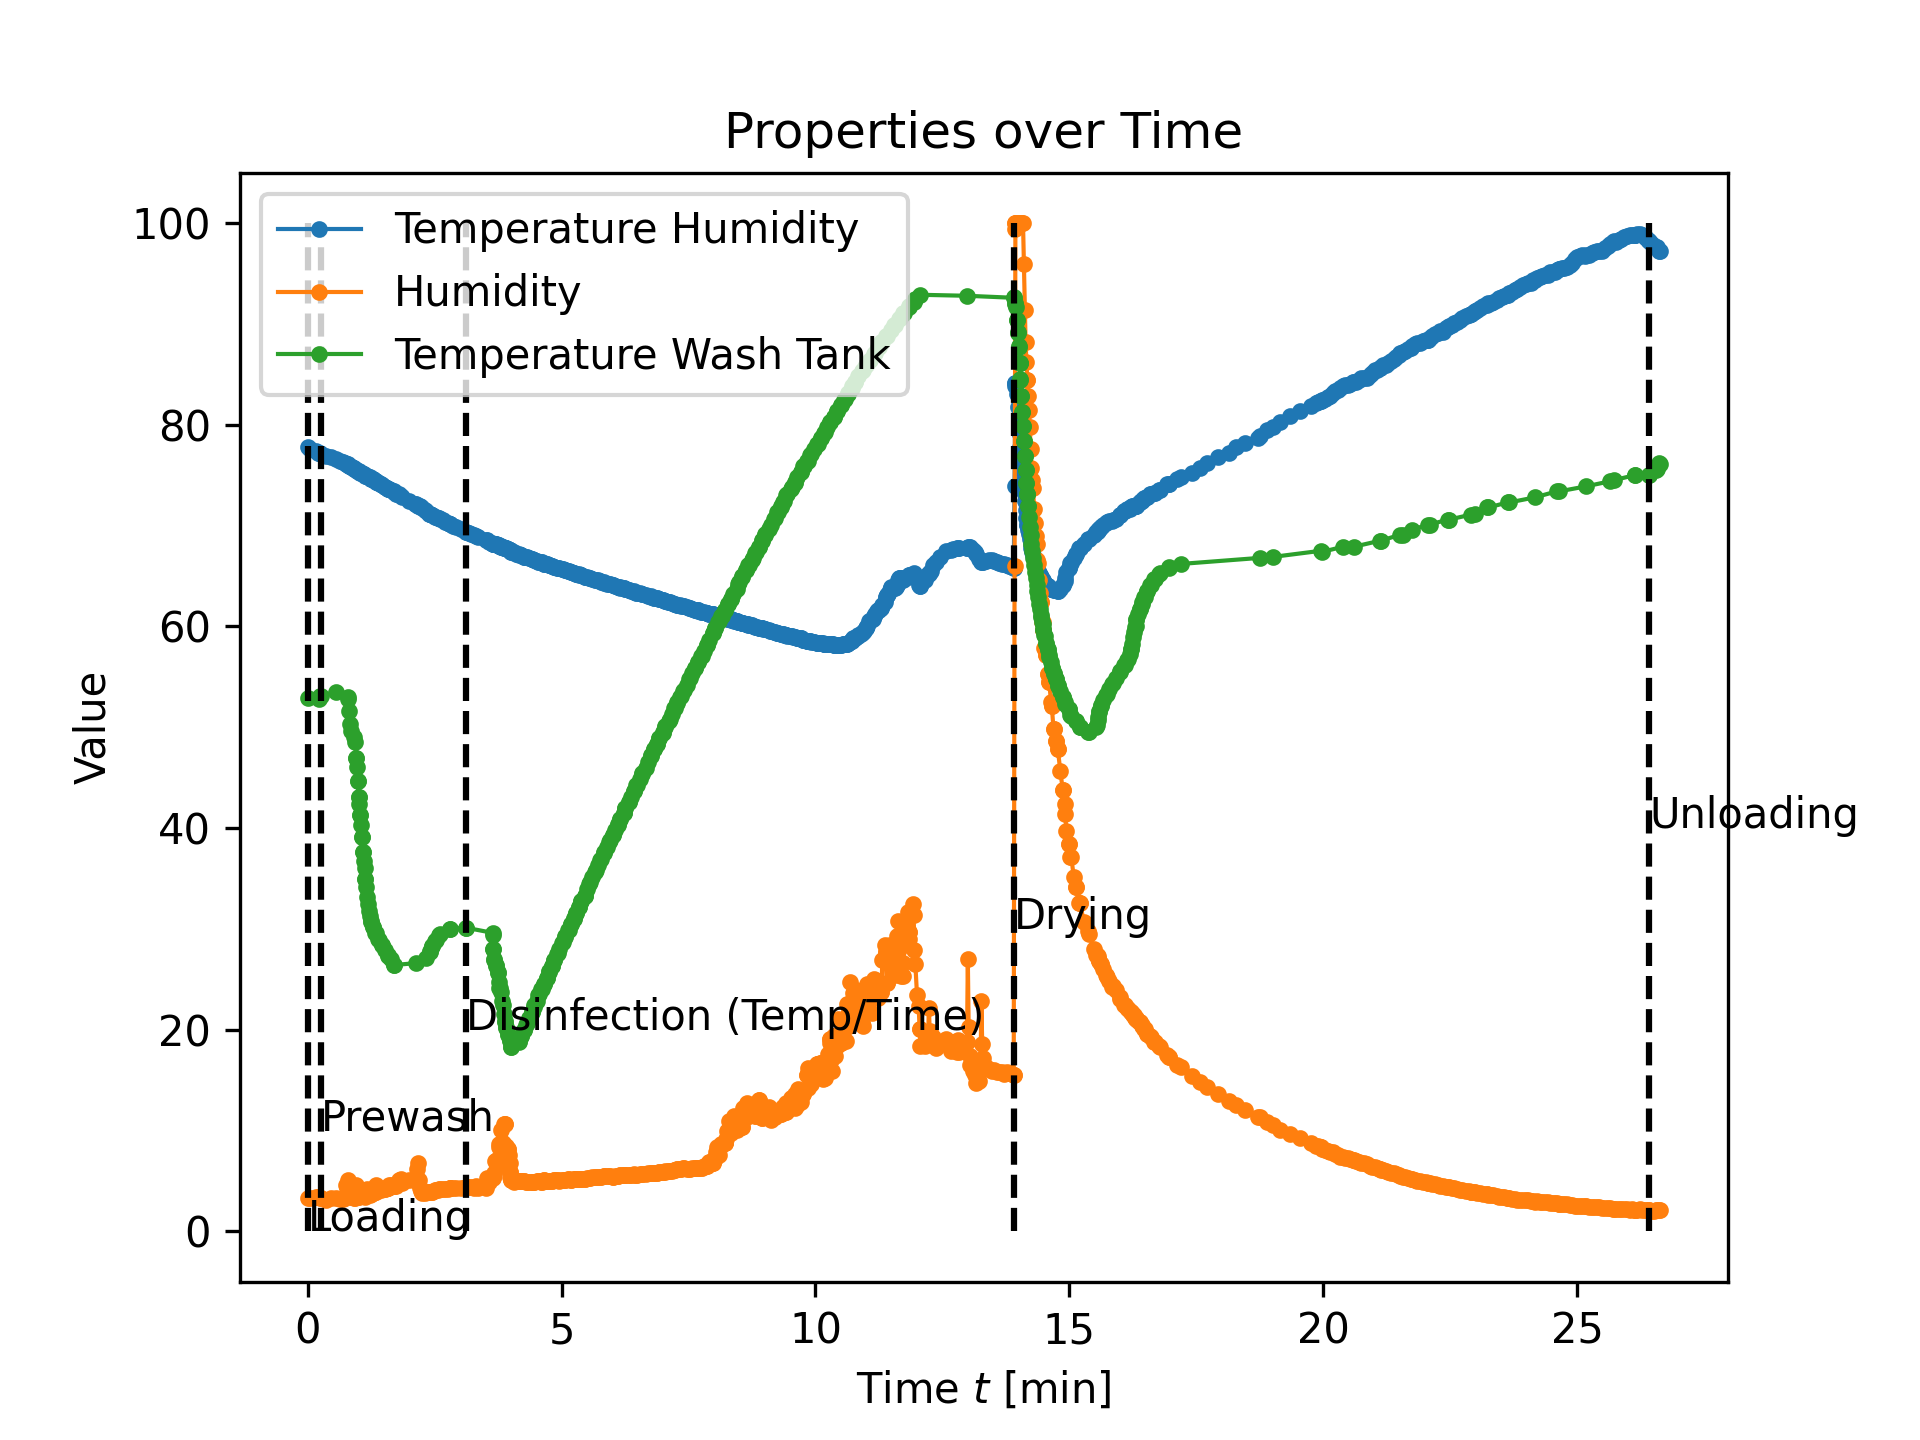
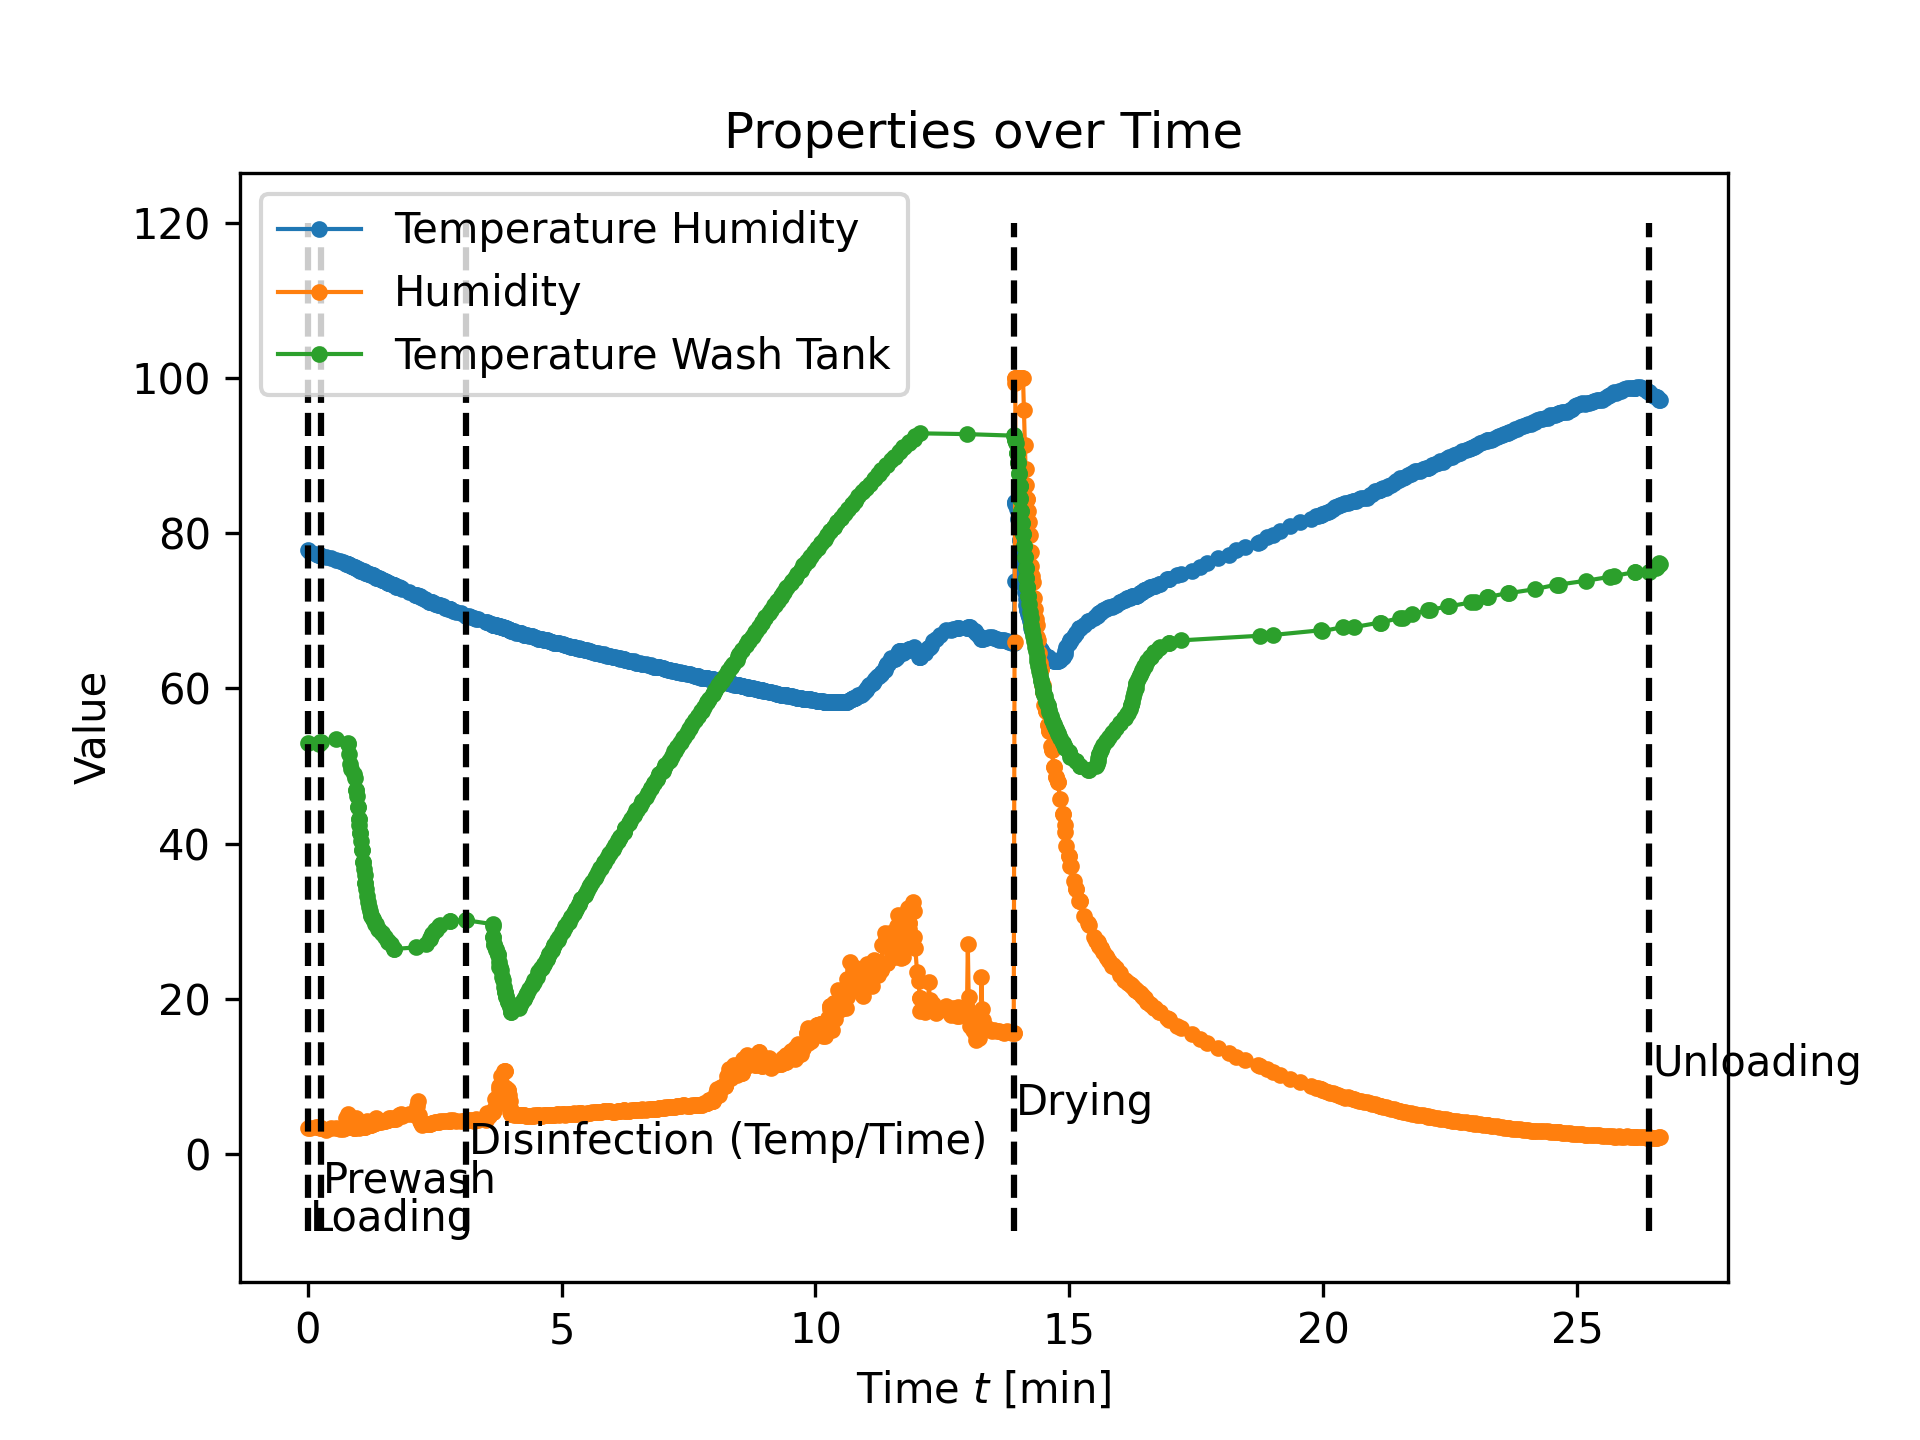
Updated graph script, new graphs

diff --git a/sample_data/graph.py b/sample_data/graph.py
@@ -1,46 +1,61 @@
 import json
+import os
 import numpy as np
 import matplotlib.pyplot as plt
 
-fdir = "./data/"    # Directory where data file stored
-fname = "2050.json" # Name of the file to plot
+# Directory where data file stored
+fdir = "./data/"
+# Directory to save plots
+gdir = "./graphs/"
 
-file = open(fdir + fname)
-data = json.load(file)
+# List of all files available
+fnames = []
 
-# Plot relevant properties
-properties = ["Temperature Humidity", "Humidity", "Temperature Wash Tank"]
-for property in properties:
+for file in os.listdir(fdir):
+    fnames.append(file)
 
-    prop = []
-    tick = []
+# Sort filenames list
+fnames = np.sort(fnames)
+
+for fname in fnames:
+
+    plt.close()
+
+    f = open(fdir + fname)
+    data = json.load(f)
+
+    properties = ["Temperature Humidity", "Humidity", "Temperature Wash Tank"]
+
+    for property in properties:
+
+        prop = []
+        tick = []
+
+        for line in data['Logs']:
+            if line['name'] == property: # and line['tick'] > 834219:
+                prop.append(line['value'])
+                tick.append(line['tick']/1000/60)
+
+        plt.plot(np.asarray(tick, float), np.asarray(prop, float), linestyle="-", linewidth=1, marker=".", label=str(property))
+
+    # Plot relevant phases
+    tick_phase = []
+    phase_type = []
 
     for line in data['Logs']:
-        if line['name'] == property: # and line['tick'] > 834219:
-            prop.append(line['value'])
-            tick.append(line['tick']/1000/60)
+        if line['name'] == "Phase type":
+            tick_phase.append(line['tick']/1000/60)
+            phase_type.append(line['value'])
 
-    plt.plot(np.asarray(tick, float), np.asarray(prop, float), linestyle="-", linewidth=1, marker=".", label=str(property))
+    plt.vlines(tick_phase, -10, 120, colors="black", linestyle="--")
+    for i in range(len(phase_type)):
+        plt.text(x=tick_phase[i]+0.05, y=-10+5*i, s=phase_type[i])
 
-# Plot relevant phases
-tick_phase = []
-phase_type = []
+    # Show plot
+    plt.title("Properties over Time")
+    plt.xlabel(r"Time $t$ [min]")
+    plt.ylabel("Value")
 
-for line in data['Logs']:
-    if line['name'] == "Phase type":
-        tick_phase.append(line['tick']/1000/60)
-        phase_type.append(line['value'])
+    plt.legend()
 
-plt.vlines(tick_phase, -10, 120, colors="black", linestyle="--")
-for i in range(len(phase_type)):
-    plt.text(x=tick_phase[i]+0.05, y=-10+5*i, s=phase_type[i])
-
-# Show plot
-plt.title("Properties over Time")
-plt.xlabel(r"Time $t$ [min]")
-plt.ylabel("Value")
-
-plt.legend()
-
-plt.savefig(str( "./graphs/" + fname.split(".")[0] + ".png" ), dpi=300)
-plt.show()
+    plt.savefig(str( "./graphs/" + fname.split(".")[0] + ".png" ), dpi=300)
